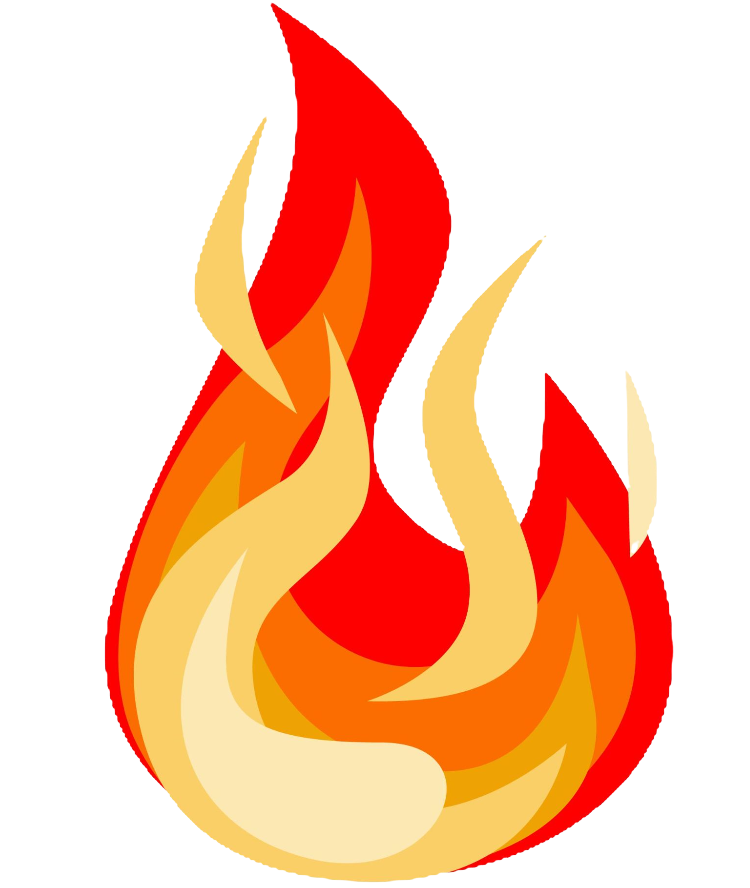
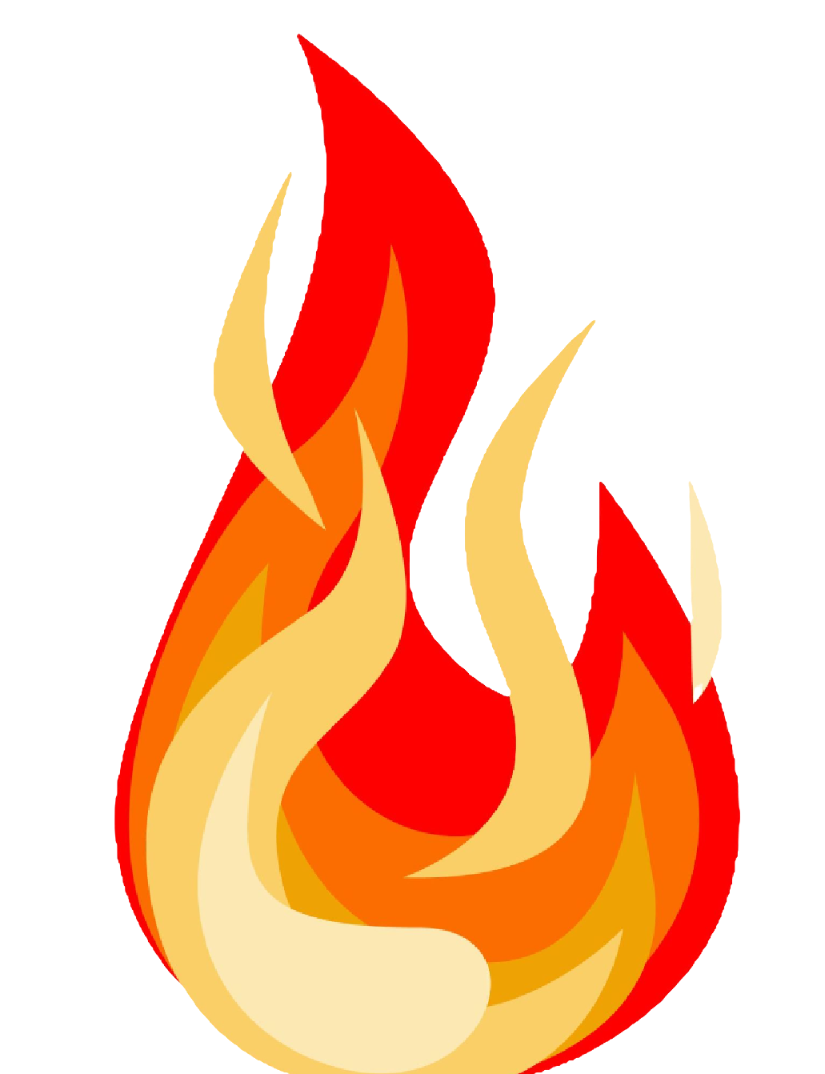
新增圖案 動態火 修改圖片同樣大小 固定圖片位置

diff --git a/index.html b/index.html
@@ -9,27 +9,30 @@
             font-family: Arial, sans-serif;
             margin: 0;
             padding: 0;
-            display: flex;
-            flex-direction: column;
-            align-items: center;
-            justify-content: center;
-            height: 100vh;
+            overflow: auto;
+        }
+        .container {
+            width: 1000px;
+            margin: 50px auto;
+            position: relative;
         }
         .title {
-            font-size: clamp(24px, 3vw, 48px);  /* 限制字體大小在 24px~48px 之間 */
+            font-size: 48px;
             font-weight: 900;
             color: #333;
-            margin-bottom: 10px;
+            text-align: center;
         }
         .subtitle {
-            font-size: clamp(16px, 1.5vw, 32px);  /* 限制字體大小在 16px~32px 之間 */
+            font-size: 32px;
             font-weight: 600;
             color: #666;
-            margin-bottom: 20px;
+            text-align: center;
         }
         .train-container {
             position: relative;
-            width: min(50vw, 800px);  /* 火車最大寬度 800px，最小根據螢幕縮小 */
+            width: 800px;
+            margin-left: 50px;
+            margin-top: 30px;
         }
         .train-img {
             width: 100%;
@@ -39,23 +42,39 @@
         .fire-img {
             position: absolute;
             top: 15%;
-            left: 5%;
-            width: min(10vw, 100px);  /* 火焰最大寬度 100px，隨螢幕變小 */
+            left: 3%;
+            width: 250px;
             height: auto;
             pointer-events: none;
+        }
+        .driver-img {
+            position: absolute;
+            width: 370px;
+            left: 300px;
+            top: 150px;
+        }
+        .travel-img {
+            position: absolute;
+            width: 370px;
+            left: 500px;
+            top: 150px;
         }
     </style>
 </head>
 <body>
-<div class="title">系統忙碌中</div>
-<div class="subtitle">火車誤點中，請稍後再試！</div>
-<div class="train-container">
-    <img class="train-img" src="imgs/train.png">
-    <img class="fire-img" id="fire" src="imgs/fire1.png">
+<div class="container">
+    <div class="title">系統忙碌中</div>
+    <div class="subtitle">火車誤點中，請稍後再試！</div>
+    <div class="train-container">
+        <img class="train-img" src="imgs/train.png">
+        <img class="fire-img" id="fire" src="imgs/fire1.png">
+        <img class="driver-img" src="imgs/driver1.png">
+        <img class="travel-img" src="imgs/traveler.png">
+    </div>
 </div>
 
 <script>
-    // 火焰圖片列表
+    // 火焰動畫
     const fireImages = [
         "imgs/fire1.png",
         "imgs/fire2.png",
